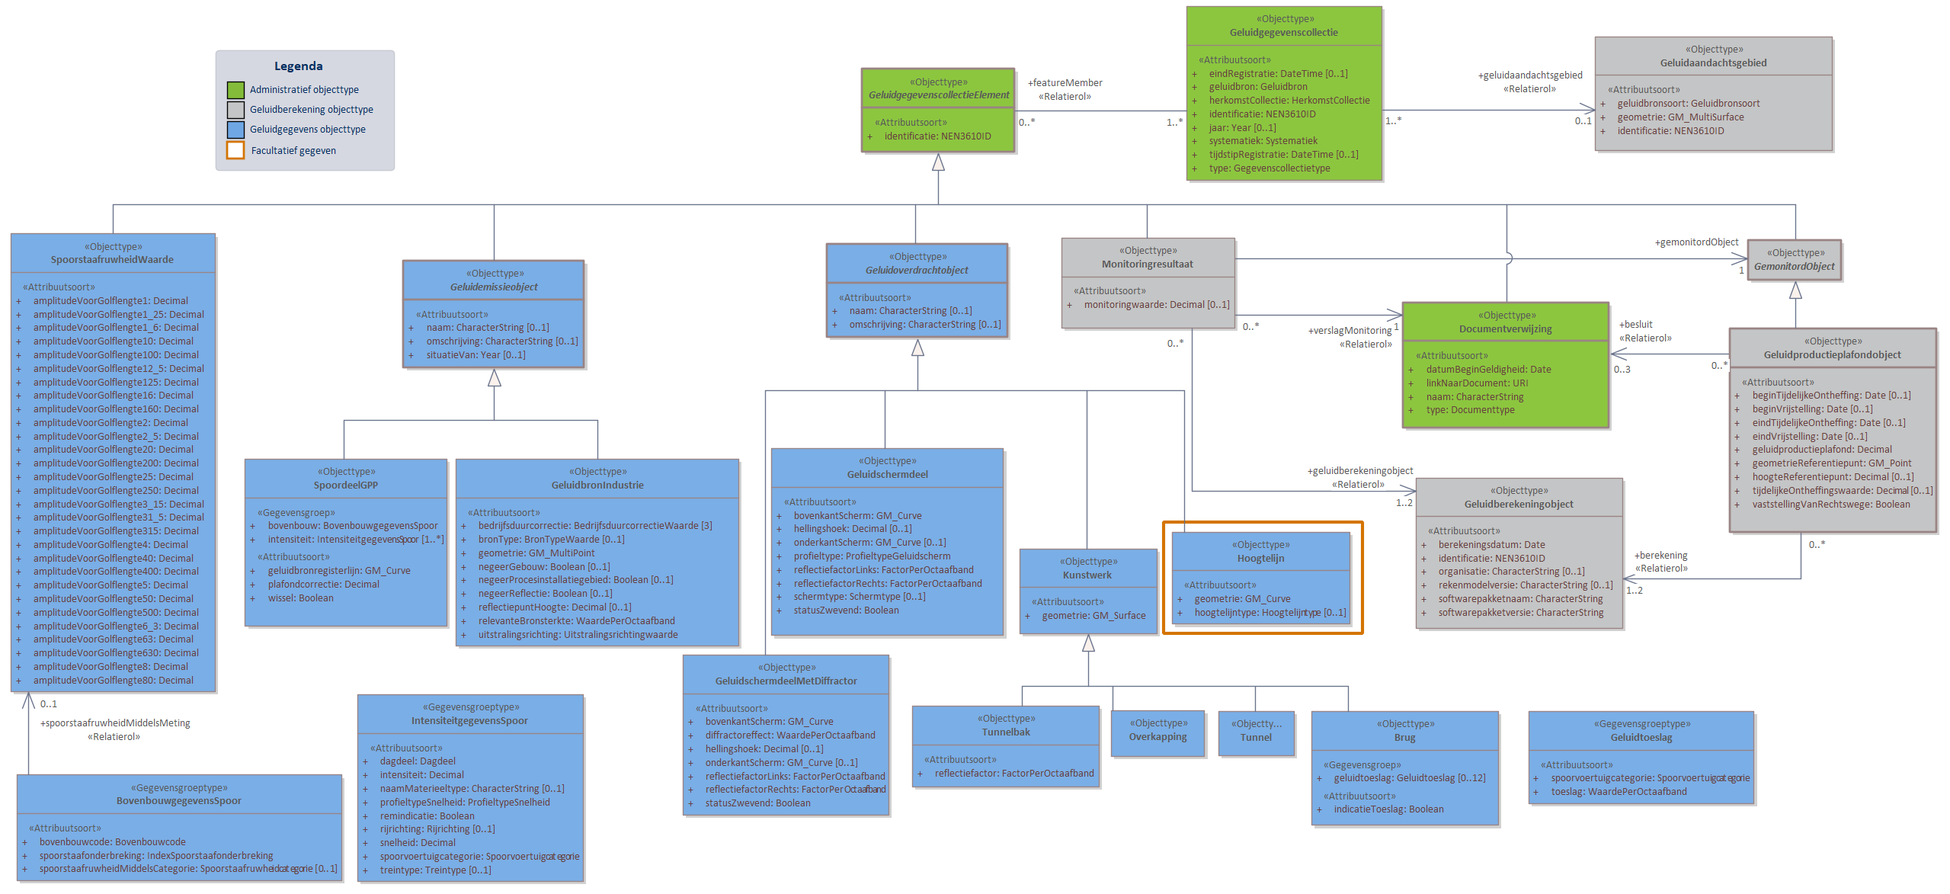
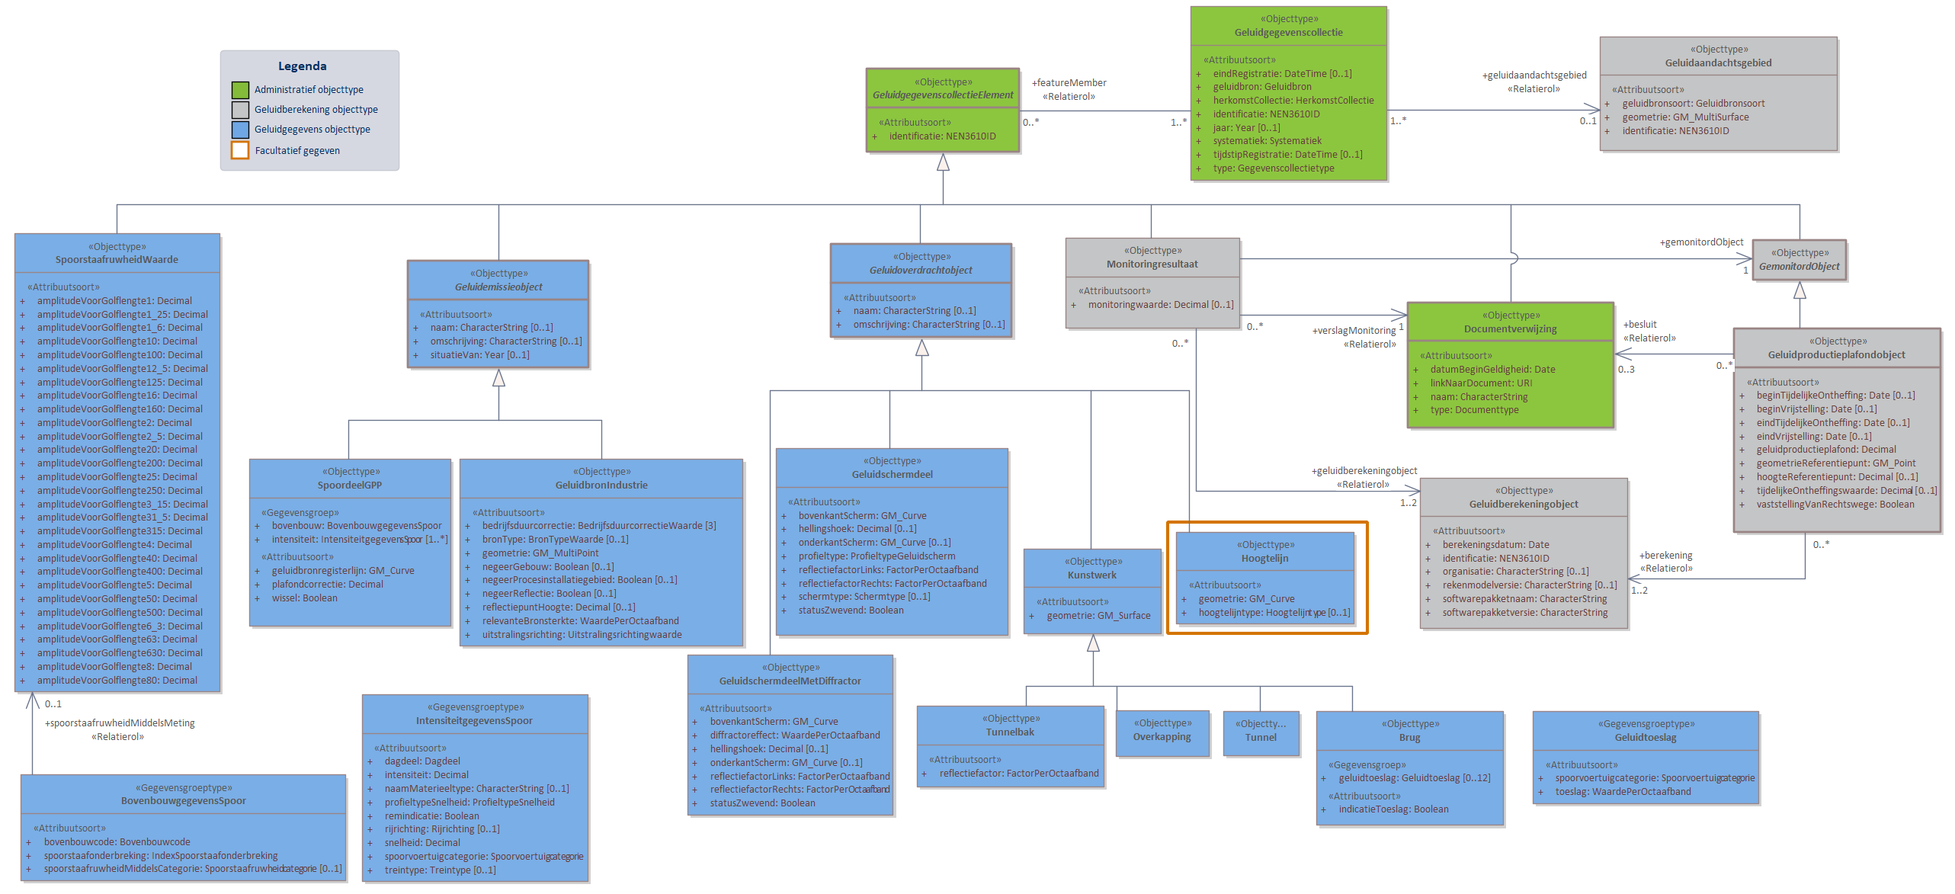
MIMLM-InformatiemodelGeluid-3.1-0-20230920-20240216-135649

diff --git a/data/IMG-cat.respec.html b/data/IMG-cat.respec.html
@@ -1,7 +1,7 @@
 
 <!DOCTYPE HTML><section id="cat" class="normative">
    <h2>Gegevensdefinitie</h2>
-   <!--MIMLM-InformatiemodelGeluid-3.1-0-20230920-20240216-124643 imvertor 1.67.1-->
+   <!--MIMLM-InformatiemodelGeluid-3.1-0-20230920-20240216-135649 imvertor 1.67.1-->
    <section id="EAID_66AE8FA2_74FC_4d4d_B2B2_249C8D6A651F">
       <h3>   Basismodel - overzicht</h3>
       <div class="imageinfo overview"><img src="data/Images/EAID_66AE8FA2_74FC_4d4d_B2B2_249C8D6A651F.png" usemap="#imagemap-EAID_66AE8FA2_74FC_4d4d_B2B2_249C8D6A651F" alt="Diagram &#xA;                        Het Basismodel vormt de samenhang tussen alle domeinen van het IMGeluid. Alle objecttypen en relaties uit het IMGeluid komen samen in een Geluidgegevenscollectie.&#xA;Binnen het IMGeluid worden geluidbrongegevens die gebruikt worden voor GPP en BGE berekeningen, gemodelleerd als een Geluidemissie of Geluidoverdrachtobject. De resultaten van GPP of BGE berekeningen worden opgeslagen in een Geluidgegevenscollectie. De onderliggende juridische vastleggingen, vaststellingen, of monitoringsverslagen van deze omgevings- of monitoringswaarden, worden ook opgeslagen in dezelfde Geluidgegevenscollectie.&#xA;Per geluidbron per toepassing kan er een Geluidgegevenscollectie bestaan. Deze kan geassocieerd worden met maximaal 1 Geluidaandachtsgebied. Wanneer geluidgegevens met betrekking tot cumulatieberekeningen worden aangeleverd, bevat een Geluidgegevenscollectie geen Geluidaandachtsgebied.&#xA;Klik met de rechtermuisknop op het diagram om de afbeelding op volledige grootte in een nieuw tabblad te openen.&#xA;                     "><map name="imagemap-EAID_66AE8FA2_74FC_4d4d_B2B2_249C8D6A651F"><area shape="rect" alt="GemonitordObject" coords="865,436,988,491" href="#graph_EAID_5DD80772_ECDE_480d_9FC2_E806D8FD565E"><area shape="rect" alt="GeluidgegevenscollectieElement" coords="49,98,286,202" href="#graph_EAID_924BD078_D715_461a_B7E9_D7176A7406E0"><area shape="rect" alt="Monitoringresultaat" coords="349,576,598,689" href="#graph_EAID_BA00B77B_D408_4590_8185_CE59E5838F1E"><area shape="rect" alt="Basisgeluidemissieobject" coords="647,633,877,735" href="#graph_EAID_9AD15457_4880_42e5_8C72_4E5EFAC91B15"><area shape="rect" alt="Geluidproductieplafondobject" coords="899,633,1174,882" href="#graph_EAID_237408F8_8CE9_4828_B8FB_1A5B8C917622"><area shape="rect" alt="Geluidberekeningobject" coords="430,858,702,1051" href="#graph_EAID_97ED59FE_9FCA_49a6_8F07_214E48000B76"><area shape="rect" alt="Documentverwijzing" coords="390,313,609,475" href="#graph_EAID_7E137496_1028_4af5_9367_569358A2167B"><area shape="rect" alt="Geluidaandachtsgebied" coords="922,81,1149,220" href="#graph_EAID_B06128AC_518C_4e26_88E5_14ED5A050A19"><area shape="rect" alt="Geluidgegevenscollectie" coords="454,14,724,242" href="#graph_EAID_313C5AF9_49B8_4860_9E65_DE7C70084864"><area shape="rect" alt="Geluidemissieobject" coords="14,622,242,766" href="#graph_EAID_361C96BA_A638_494e_80BA_590ED481A81B"><area shape="rect" alt="Geluidoverdrachtobject" coords="68,320,319,442" href="#graph_EAID_2FEA326B_B7E7_48a4_B50F_00CCB2694677"></map><p><b>Basismodel - overzicht</b>
@@ -40,7 +40,7 @@
    </section>
    <section id="EAID_4D140CCE_0889_4998_B668_8E4DB0053589">
       <h3>   GPP Industrie - overzicht</h3>
-      <div class="imageinfo overview"><img src="data/Images/EAID_4D140CCE_0889_4998_B668_8E4DB0053589.png" usemap="#imagemap-EAID_4D140CCE_0889_4998_B668_8E4DB0053589" alt="Diagram &#xA;                        In domeinmodel GPP Industrie staan objecttypen en relaties die relevant zijn voor geluidbronbeheersing van industrieterreinen waarvoor de geluidproductieplafond regeling geldt; en die nodig zijn voor akoestisch onderzoek binnen het geluidaandachtsgebied van het industrieterrein.&#xA;Alle geluidbronnen op een industrieterrein worden opgeslagen als puntbronnen in het object  GeluidbronIndustrie. Indien binnen geluidrekensoftware gebruik is gemaakt van lijn- of vlakgeometrie voor het uitdrukken van geluidbronnen kan dit worden opgeslagen als optionele informatie conform de objecten LijnbronIndustrie en VlakbronIndustrie. &#xA;Voor ieder Geluidproductieplafondobject rondom het industrieterrein, valt te herleiden op welke geluidberekening de geluidproductieplafondwaarde gebaseerd is. Deze informatie wordt bijgehouden conform het Geluidberekeningobject.&#xA;Ook valt er te herleiden welke geluidbrongegevens gebruikt zijn bij een geluidberekening. Deze geluidbrongegevens zijn samen met het Geluidberekeningsobject terug te vinden in een  Geluidgegevenscollectie in de vorm van gespecialiseerde geluidemissie- en geluidoverdrachtsobjecten.&#xA;&#xA;Klik met de rechtermuisknop op het diagram om de afbeelding op volledige grootte in een nieuw tabblad te openen&#xA;                     "><map name="imagemap-EAID_4D140CCE_0889_4998_B668_8E4DB0053589"><area shape="rect" alt="GeluidschermdeelMetDiffractor" coords="1048,936,1319,1146" href="#graph_EAID_0A4CA1DE_F6B4_471a_9AC9_690315ADE781"><area shape="rect" alt="GemonitordObject" coords="1718,313,1841,372" href="#graph_EAID_5DD80772_ECDE_480d_9FC2_E806D8FD565E"><area shape="rect" alt="Industrieterrein" coords="1319,547,1584,674" href="#graph_EAID_1D01430D_AF7F_448d_B10E_DB334CFB14E9"><area shape="rect" alt="GeluidgegevenscollectieElement" coords="687,101,911,211" href="#graph_EAID_924BD078_D715_461a_B7E9_D7176A7406E0"><area shape="rect" alt="MonitoringresultaatIndustrie" coords="2156,878,2402,982" href="#graph_EAID_B9687B05_4B3A_4789_A07A_7B0C16C23CF5"><area shape="rect" alt="Terreintype" coords="1112,339,1287,479" href="#graph_EAID_77370E17_8492_4c58_9D1A_B6E09697F834"><area shape="rect" alt="Monitoringresultaat" coords="2163,654,2383,757" href="#graph_EAID_BA00B77B_D408_4590_8185_CE59E5838F1E"><area shape="rect" alt="Geluidgegevenscollectie" coords="1297,14,1620,244" href="#graph_EAID_313C5AF9_49B8_4860_9E65_DE7C70084864"><area shape="rect" alt="Geluidoverdrachtobject" coords="679,363,928,484" href="#graph_EAID_2FEA326B_B7E7_48a4_B50F_00CCB2694677"><area shape="rect" alt="Geluidemissieobject" coords="168,363,425,506" href="#graph_EAID_361C96BA_A638_494e_80BA_590ED481A81B"><area shape="rect" alt="GeluidproductieplafondobjectIndustrie" coords="1502,819,1806,977" href="#graph_EAID_54EBAB06_4239_44c9_A4FF_72CDA727F5D3"><area shape="rect" alt="Hoogtelijn" coords="497,837,732,959" href="#graph_EAID_CE3003A0_5F16_4630_B2A6_519B33439135"><area shape="rect" alt="Geluidschermdeel" coords="747,839,1031,1064" href="#graph_EAID_BC342A75_1053_4086_9B42_321F22E3FA82"><area shape="rect" alt="VlakbronIndustrie" coords="369,1021,632,1198" href="#graph_EAID_43CE47B3_F0C4_4ee1_A29C_DA9AE6216E59"><area shape="rect" alt="IndustrieRekeninstellingen" coords="1821,1082,2126,1185" href="#graph_EAID_7B120AD1_3CF4_4d78_9CA8_B7D7B709DB5A"><area shape="rect" alt="Bodemvlak" coords="1074,621,1252,748" href="#graph_EAID_902B9218_E1B1_4512_B52A_F8DADD1DB990"><area shape="rect" alt="Geluidberekeningobject" coords="1822,856,2127,1049" href="#graph_EAID_97ED59FE_9FCA_49a6_8F07_214E48000B76"><area shape="rect" alt="Terrein" coords="1317,341,1583,498" href="#graph_EAID_3CF82A2D_EBD2_45f5_BDBF_6B65612322CD"><area shape="rect" alt="LijnbronIndustrie" coords="82,1022,323,1182" href="#graph_EAID_EF66CAA4_E8AE_4eca_8176_0B5CE277CD47"><area shape="rect" alt="Procesinstallatiegebied" coords="806,621,1055,774" href="#graph_EAID_F66BFCFE_8850_4cf0_8769_084A9455A966"><area shape="rect" alt="Vegetatiegebied" coords="1082,766,1306,918" href="#graph_EAID_C09CF91E_C221_4fe9_B126_08102B3DEF5A"><area shape="rect" alt="Documentverwijzing" coords="2067,397,2278,551" href="#graph_EAID_7E137496_1028_4af5_9367_569358A2167B"><area shape="rect" alt="Geluidproductieplafondobject" coords="1661,421,1954,673" href="#graph_EAID_237408F8_8CE9_4828_B8FB_1A5B8C917622"><area shape="rect" alt="Bouwwerk" coords="518,621,785,792" href="#graph_EAID_8A05EFB0_A6AD_45e8_AE68_FAA4399063F2"><area shape="rect" alt="Geluidaandachtsgebied" coords="1973,42,2215,189" href="#graph_EAID_B06128AC_518C_4e26_88E5_14ED5A050A19"><area shape="rect" alt="GeluidbronIndustrie" coords="105,557,456,802" href="#graph_EAID_7B6D3D2D_0C70_435a_AAFC_FABC9CD61353"></map><p><b>GPP Industrie - overzicht</b>
+      <div class="imageinfo overview"><img src="data/Images/EAID_4D140CCE_0889_4998_B668_8E4DB0053589.png" usemap="#imagemap-EAID_4D140CCE_0889_4998_B668_8E4DB0053589" alt="Diagram &#xA;                        In domeinmodel GPP Industrie staan objecttypen en relaties die relevant zijn voor geluidbronbeheersing van industrieterreinen waarvoor de geluidproductieplafond regeling geldt; en die nodig zijn voor akoestisch onderzoek binnen het geluidaandachtsgebied van het industrieterrein.&#xA;Alle geluidbronnen op een industrieterrein worden opgeslagen als puntbronnen in het object  GeluidbronIndustrie. Indien binnen geluidrekensoftware gebruik is gemaakt van lijn- of vlakgeometrie voor het uitdrukken van geluidbronnen kan dit worden opgeslagen als optionele informatie conform de objecten LijnbronIndustrie en VlakbronIndustrie. &#xA;Voor ieder Geluidproductieplafondobject rondom het industrieterrein, valt te herleiden op welke geluidberekening de geluidproductieplafondwaarde gebaseerd is. Deze informatie wordt bijgehouden conform het Geluidberekeningobject.&#xA;Ook valt er te herleiden welke geluidbrongegevens gebruikt zijn bij een geluidberekening. Deze geluidbrongegevens zijn samen met het Geluidberekeningsobject terug te vinden in een  Geluidgegevenscollectie in de vorm van gespecialiseerde geluidemissie- en geluidoverdrachtsobjecten.&#xA;&#xA;Klik met de rechtermuisknop op het diagram om de afbeelding op volledige grootte in een nieuw tabblad te openen&#xA;                     "><map name="imagemap-EAID_4D140CCE_0889_4998_B668_8E4DB0053589"><area shape="rect" alt="GeluidschermdeelMetDiffractor" coords="1055,936,1326,1146" href="#graph_EAID_0A4CA1DE_F6B4_471a_9AC9_690315ADE781"><area shape="rect" alt="GemonitordObject" coords="1725,313,1848,372" href="#graph_EAID_5DD80772_ECDE_480d_9FC2_E806D8FD565E"><area shape="rect" alt="Industrieterrein" coords="1326,547,1591,674" href="#graph_EAID_1D01430D_AF7F_448d_B10E_DB334CFB14E9"><area shape="rect" alt="GeluidgegevenscollectieElement" coords="694,101,918,211" href="#graph_EAID_924BD078_D715_461a_B7E9_D7176A7406E0"><area shape="rect" alt="MonitoringresultaatIndustrie" coords="2163,878,2409,982" href="#graph_EAID_B9687B05_4B3A_4789_A07A_7B0C16C23CF5"><area shape="rect" alt="Terreintype" coords="1119,339,1294,479" href="#graph_EAID_77370E17_8492_4c58_9D1A_B6E09697F834"><area shape="rect" alt="Monitoringresultaat" coords="2170,654,2390,757" href="#graph_EAID_BA00B77B_D408_4590_8185_CE59E5838F1E"><area shape="rect" alt="Geluidgegevenscollectie" coords="1304,14,1627,244" href="#graph_EAID_313C5AF9_49B8_4860_9E65_DE7C70084864"><area shape="rect" alt="Geluidoverdrachtobject" coords="685,363,934,484" href="#graph_EAID_2FEA326B_B7E7_48a4_B50F_00CCB2694677"><area shape="rect" alt="Geluidemissieobject" coords="175,363,432,506" href="#graph_EAID_361C96BA_A638_494e_80BA_590ED481A81B"><area shape="rect" alt="GeluidproductieplafondobjectIndustrie" coords="1509,819,1813,977" href="#graph_EAID_54EBAB06_4239_44c9_A4FF_72CDA727F5D3"><area shape="rect" alt="Hoogtelijn" coords="503,837,739,959" href="#graph_EAID_CE3003A0_5F16_4630_B2A6_519B33439135"><area shape="rect" alt="Geluidschermdeel" coords="754,839,1038,1064" href="#graph_EAID_BC342A75_1053_4086_9B42_321F22E3FA82"><area shape="rect" alt="VlakbronIndustrie" coords="376,1021,639,1198" href="#graph_EAID_43CE47B3_F0C4_4ee1_A29C_DA9AE6216E59"><area shape="rect" alt="IndustrieRekeninstellingen" coords="1828,1082,2133,1185" href="#graph_EAID_7B120AD1_3CF4_4d78_9CA8_B7D7B709DB5A"><area shape="rect" alt="Bodemvlak" coords="1081,621,1259,748" href="#graph_EAID_902B9218_E1B1_4512_B52A_F8DADD1DB990"><area shape="rect" alt="Geluidberekeningobject" coords="1829,856,2134,1049" href="#graph_EAID_97ED59FE_9FCA_49a6_8F07_214E48000B76"><area shape="rect" alt="Terrein" coords="1324,341,1590,498" href="#graph_EAID_3CF82A2D_EBD2_45f5_BDBF_6B65612322CD"><area shape="rect" alt="LijnbronIndustrie" coords="89,1022,330,1182" href="#graph_EAID_EF66CAA4_E8AE_4eca_8176_0B5CE277CD47"><area shape="rect" alt="Procesinstallatiegebied" coords="813,621,1062,774" href="#graph_EAID_F66BFCFE_8850_4cf0_8769_084A9455A966"><area shape="rect" alt="Vegetatiegebied" coords="1089,766,1313,918" href="#graph_EAID_C09CF91E_C221_4fe9_B126_08102B3DEF5A"><area shape="rect" alt="Documentverwijzing" coords="2074,397,2285,551" href="#graph_EAID_7E137496_1028_4af5_9367_569358A2167B"><area shape="rect" alt="Geluidproductieplafondobject" coords="1668,421,1960,673" href="#graph_EAID_237408F8_8CE9_4828_B8FB_1A5B8C917622"><area shape="rect" alt="Bouwwerk" coords="525,621,792,792" href="#graph_EAID_8A05EFB0_A6AD_45e8_AE68_FAA4399063F2"><area shape="rect" alt="Geluidaandachtsgebied" coords="1980,42,2222,189" href="#graph_EAID_B06128AC_518C_4e26_88E5_14ED5A050A19"><area shape="rect" alt="GeluidbronIndustrie" coords="112,557,462,802" href="#graph_EAID_7B6D3D2D_0C70_435a_AAFC_FABC9CD61353"></map><p><b>GPP Industrie - overzicht</b>
             
             <p>In domeinmodel GPP Industrie staan objecttypen en relaties die relevant zijn voor
                geluidbronbeheersing van industrieterreinen waarvoor de geluidproductieplafond regeling
@@ -88,7 +88,7 @@
    </section>
    <section id="EAID_33DF05AD_62E8_41d4_8CC0_8980CB80739F">
       <h3>   GPP Spoor - overzicht</h3>
-      <div class="imageinfo overview"><img src="data/Images/EAID_33DF05AD_62E8_41d4_8CC0_8980CB80739F.png" usemap="#imagemap-EAID_33DF05AD_62E8_41d4_8CC0_8980CB80739F" alt="Diagram &#xA;                        In domeinmodel GPP Spoor staan objecttypen en relaties die relevant zijn voor geluidbronbeheersing van spoorwegen waarvoor de geluidproductieplafond regeling geldt; en die nodig zijn voor akoestisch onderzoek binnen het geluidaandachtsgebied van spoorwegen.&#xA;Geluidbronnen binnen GPP Spoor worden opgeslagen als lijnbron conform het object SpoordeelGPP, behalve voor geluidbronnen binnen spoorwegemplacementen. Deze geluidbronnen worden opgeslagen als GeluidbronIndustrie.&#xA;Voor ieder Geluidproductieplafondobject langs een Hoofdspoorweg, valt te herleiden op welke geluidberekening de geluidproductieplafondwaarde gebaseerd is. Deze informatie wordt bijgehouden conform het Geluidberekeningobject.&#xA;Ook valt er te herleiden welke geluidbrongegevens gebruikt zijn bij een geluidberekening. Deze geluidbrongegevens zijn samen met het Geluidberekeningsobject terug te vinden in een  Geluidgegevenscollectie in de vorm van gespecialiseerde geluidemissie- en geluidoverdrachtsobjecten.&#xA;&#xA;Klik met de rechtermuisknop op het diagram om de afbeelding op volledige grootte in een nieuw tabblad te openen&#xA;&#xA;                     "><map name="imagemap-EAID_33DF05AD_62E8_41d4_8CC0_8980CB80739F"><area shape="rect" alt="GemonitordObject" coords="2294,315,2417,368" href="#graph_EAID_5DD80772_ECDE_480d_9FC2_E806D8FD565E"><area shape="rect" alt="GeluidschermdeelMetDiffractor" coords="896,859,1167,1070" href="#graph_EAID_0A4CA1DE_F6B4_471a_9AC9_690315ADE781"><area shape="rect" alt="IntensiteitgegevensSpoor" coords="469,911,766,1157" href="#graph_EAID_5FFCEE29_DD71_45db_926C_AB9A7E8677F3"><area shape="rect" alt="BovenbouwgegevensSpoor" coords="22,1016,449,1156" href="#graph_EAID_B5BBEDFE_C275_4c9f_BFF4_0440A0F7820B"><area shape="rect" alt="SpoorstaafruwheidWaarde" coords="14,306,283,908" href="#graph_EAID_E5D9E12A_27B9_417c_ABEB_2149C046EBE0"><area shape="rect" alt="GeluidgegevenscollectieElement" coords="1131,90,1332,200" href="#graph_EAID_924BD078_D715_461a_B7E9_D7176A7406E0"><area shape="rect" alt="Geluidtoeslag" coords="2006,933,2302,1055" href="#graph_EAID_FB0866C8_1438_445a_BB63_B798A00E1626"><area shape="rect" alt="Geluidgegevenscollectie" coords="1557,8,1814,237" href="#graph_EAID_313C5AF9_49B8_4860_9E65_DE7C70084864"><area shape="rect" alt="Monitoringresultaat" coords="1393,312,1621,431" href="#graph_EAID_BA00B77B_D408_4590_8185_CE59E5838F1E"><area shape="rect" alt="GeluidbronIndustrie" coords="598,602,970,848" href="#graph_EAID_7B6D3D2D_0C70_435a_AAFC_FABC9CD61353"><area shape="rect" alt="Kunstwerk" coords="1338,720,1519,832" href="#graph_EAID_E7C0AB60_EC07_4e4f_8F38_E279188D028A"><area shape="rect" alt="Overkapping" coords="1458,932,1581,993" href="#graph_EAID_68402E1D_9370_4bd4_87E6_A21FD883E5B5"><area shape="rect" alt="Tunnelbak" coords="1197,926,1443,1033" href="#graph_EAID_5A041C70_3BE7_4273_87C7_341981B09801"><area shape="rect" alt="Tunnel" coords="1599,933,1699,992" href="#graph_EAID_52FB0AD2_D680_41f5_A4E8_979EF928F841"><area shape="rect" alt="Brug" coords="1721,933,1967,1083" href="#graph_EAID_F36131A1_FE84_4230_B41A_3E55575D3C80"><area shape="rect" alt="Geluidemissieobject" coords="529,342,767,483" href="#graph_EAID_361C96BA_A638_494e_80BA_590ED481A81B"><area shape="rect" alt="Geluidoverdrachtobject" coords="1085,320,1323,443" href="#graph_EAID_2FEA326B_B7E7_48a4_B50F_00CCB2694677"><area shape="rect" alt="Geluidberekeningobject" coords="1858,627,2130,825" href="#graph_EAID_97ED59FE_9FCA_49a6_8F07_214E48000B76"><area shape="rect" alt="Documentverwijzing" coords="1841,397,2112,562" href="#graph_EAID_7E137496_1028_4af5_9367_569358A2167B"><area shape="rect" alt="Geluidaandachtsgebied" coords="2093,48,2405,198" href="#graph_EAID_B06128AC_518C_4e26_88E5_14ED5A050A19"><area shape="rect" alt="Geluidproductieplafondobject" coords="2270,431,2542,699" href="#graph_EAID_237408F8_8CE9_4828_B8FB_1A5B8C917622"><area shape="rect" alt="SpoordeelGPP" coords="321,602,587,822" href="#graph_EAID_711C94BB_E0F7_40e5_A41A_C53DB13272C3"><area shape="rect" alt="Geluidschermdeel" coords="1012,588,1317,834" href="#graph_EAID_BC342A75_1053_4086_9B42_321F22E3FA82"><area shape="rect" alt="Hoogtelijn" coords="1538,698,1772,819" href="#graph_EAID_CE3003A0_5F16_4630_B2A6_519B33439135"></map><p><b>GPP Spoor - overzicht</b>
+      <div class="imageinfo overview"><img src="data/Images/EAID_33DF05AD_62E8_41d4_8CC0_8980CB80739F.png" usemap="#imagemap-EAID_33DF05AD_62E8_41d4_8CC0_8980CB80739F" alt="Diagram &#xA;                        In domeinmodel GPP Spoor staan objecttypen en relaties die relevant zijn voor geluidbronbeheersing van spoorwegen waarvoor de geluidproductieplafond regeling geldt; en die nodig zijn voor akoestisch onderzoek binnen het geluidaandachtsgebied van spoorwegen.&#xA;Geluidbronnen binnen GPP Spoor worden opgeslagen als lijnbron conform het object SpoordeelGPP, behalve voor geluidbronnen binnen spoorwegemplacementen. Deze geluidbronnen worden opgeslagen als GeluidbronIndustrie.&#xA;Voor ieder Geluidproductieplafondobject langs een Hoofdspoorweg, valt te herleiden op welke geluidberekening de geluidproductieplafondwaarde gebaseerd is. Deze informatie wordt bijgehouden conform het Geluidberekeningobject.&#xA;Ook valt er te herleiden welke geluidbrongegevens gebruikt zijn bij een geluidberekening. Deze geluidbrongegevens zijn samen met het Geluidberekeningsobject terug te vinden in een  Geluidgegevenscollectie in de vorm van gespecialiseerde geluidemissie- en geluidoverdrachtsobjecten.&#xA;&#xA;Klik met de rechtermuisknop op het diagram om de afbeelding op volledige grootte in een nieuw tabblad te openen&#xA;&#xA;                     "><map name="imagemap-EAID_33DF05AD_62E8_41d4_8CC0_8980CB80739F"><area shape="rect" alt="GemonitordObject" coords="2300,315,2423,368" href="#graph_EAID_5DD80772_ECDE_480d_9FC2_E806D8FD565E"><area shape="rect" alt="GeluidschermdeelMetDiffractor" coords="902,859,1172,1070" href="#graph_EAID_0A4CA1DE_F6B4_471a_9AC9_690315ADE781"><area shape="rect" alt="IntensiteitgegevensSpoor" coords="475,911,772,1157" href="#graph_EAID_5FFCEE29_DD71_45db_926C_AB9A7E8677F3"><area shape="rect" alt="BovenbouwgegevensSpoor" coords="27,1016,454,1156" href="#graph_EAID_B5BBEDFE_C275_4c9f_BFF4_0440A0F7820B"><area shape="rect" alt="SpoorstaafruwheidWaarde" coords="19,306,289,908" href="#graph_EAID_E5D9E12A_27B9_417c_ABEB_2149C046EBE0"><area shape="rect" alt="GeluidgegevenscollectieElement" coords="1137,90,1338,200" href="#graph_EAID_924BD078_D715_461a_B7E9_D7176A7406E0"><area shape="rect" alt="Geluidtoeslag" coords="2011,933,2308,1055" href="#graph_EAID_FB0866C8_1438_445a_BB63_B798A00E1626"><area shape="rect" alt="Geluidgegevenscollectie" coords="1562,8,1820,237" href="#graph_EAID_313C5AF9_49B8_4860_9E65_DE7C70084864"><area shape="rect" alt="Monitoringresultaat" coords="1398,312,1627,431" href="#graph_EAID_BA00B77B_D408_4590_8185_CE59E5838F1E"><area shape="rect" alt="GeluidbronIndustrie" coords="603,602,975,848" href="#graph_EAID_7B6D3D2D_0C70_435a_AAFC_FABC9CD61353"><area shape="rect" alt="Kunstwerk" coords="1343,720,1524,832" href="#graph_EAID_E7C0AB60_EC07_4e4f_8F38_E279188D028A"><area shape="rect" alt="Overkapping" coords="1464,932,1587,993" href="#graph_EAID_68402E1D_9370_4bd4_87E6_A21FD883E5B5"><area shape="rect" alt="Tunnelbak" coords="1203,926,1449,1033" href="#graph_EAID_5A041C70_3BE7_4273_87C7_341981B09801"><area shape="rect" alt="Tunnel" coords="1605,933,1705,992" href="#graph_EAID_52FB0AD2_D680_41f5_A4E8_979EF928F841"><area shape="rect" alt="Brug" coords="1727,933,1973,1083" href="#graph_EAID_F36131A1_FE84_4230_B41A_3E55575D3C80"><area shape="rect" alt="Geluidemissieobject" coords="535,342,773,483" href="#graph_EAID_361C96BA_A638_494e_80BA_590ED481A81B"><area shape="rect" alt="Geluidoverdrachtobject" coords="1090,320,1328,443" href="#graph_EAID_2FEA326B_B7E7_48a4_B50F_00CCB2694677"><area shape="rect" alt="Geluidberekeningobject" coords="1863,627,2136,825" href="#graph_EAID_97ED59FE_9FCA_49a6_8F07_214E48000B76"><area shape="rect" alt="Documentverwijzing" coords="1847,397,2118,562" href="#graph_EAID_7E137496_1028_4af5_9367_569358A2167B"><area shape="rect" alt="Geluidaandachtsgebied" coords="2099,48,2411,198" href="#graph_EAID_B06128AC_518C_4e26_88E5_14ED5A050A19"><area shape="rect" alt="Geluidproductieplafondobject" coords="2275,431,2547,699" href="#graph_EAID_237408F8_8CE9_4828_B8FB_1A5B8C917622"><area shape="rect" alt="SpoordeelGPP" coords="327,602,592,822" href="#graph_EAID_711C94BB_E0F7_40e5_A41A_C53DB13272C3"><area shape="rect" alt="Geluidschermdeel" coords="1018,588,1323,834" href="#graph_EAID_BC342A75_1053_4086_9B42_321F22E3FA82"><area shape="rect" alt="Hoogtelijn" coords="1543,698,1777,819" href="#graph_EAID_CE3003A0_5F16_4630_B2A6_519B33439135"></map><p><b>GPP Spoor - overzicht</b>
             
             <p>In domeinmodel GPP Spoor staan objecttypen en relaties die relevant zijn voor geluidbronbeheersing
                van spoorwegen waarvoor de geluidproductieplafond regeling geldt; en die nodig zijn
@@ -26011,7 +26011,7 @@
 </section>
 <section id="lis" class="normative">
    <h2>Inhoud van waardenlijsten</h2>
-   <!--MIMLM-InformatiemodelGeluid-3.1-0-20230920-20240216-124643 imvertor 1.67.1--><a class="anchor" id="graph_EAID_C9ACE184_6E2B_40c1_ACE0_A7C5EE554EF9"></a><a class="anchor" id="detail_class_IMGeluidAlgemeen_Schermtype"></a><section id="detail_class_IMGeluidAlgemeen_Schermtype">
+   <!--MIMLM-InformatiemodelGeluid-3.1-0-20230920-20240216-135649 imvertor 1.67.1--><a class="anchor" id="graph_EAID_C9ACE184_6E2B_40c1_ACE0_A7C5EE554EF9"></a><a class="anchor" id="detail_class_IMGeluidAlgemeen_Schermtype"></a><section id="detail_class_IMGeluidAlgemeen_Schermtype">
       <h3>Enumeratie details  Schermtype</h3>
       
       <table style="width: 100%;" class="list">
